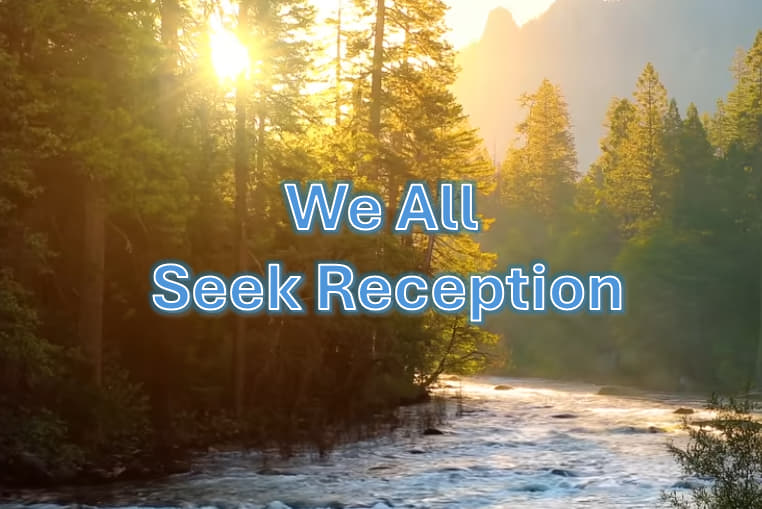
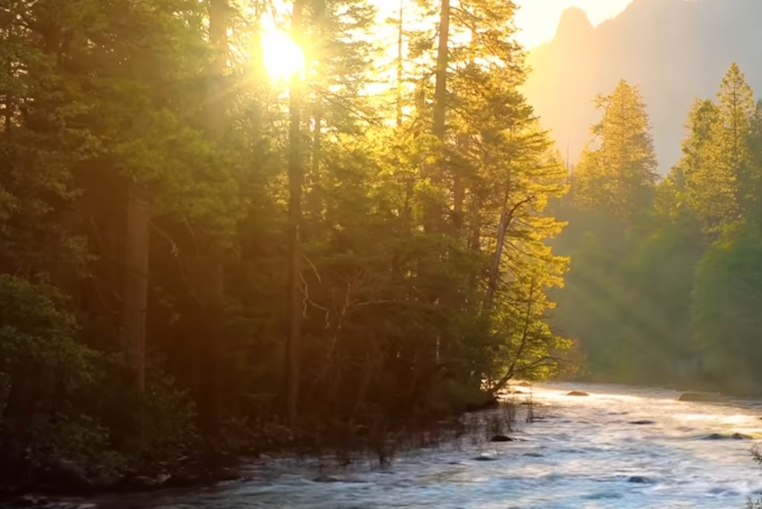
design updates

diff --git a/src/template/_partials/contact.html b/src/template/_partials/contact.html
@@ -5,8 +5,8 @@
     <div class="row">
       <div class="col-xl-6 mx-auto">
         <div class="vl-section-title3 mb-60 text-center">
-          <h4 class="subtitle" data-aos="fade-up" data-aos-duration="800" data-aos-delay="300">Contact From</h4>
-          <h2 class="title text-anime-style-3">Contact The Vywamus Foundation</h2>
+          <h4 class="subtitle" data-aos="fade-up" data-aos-duration="800" data-aos-delay="300">Contact</h4>
+          <h2 class="title text-anime-style-3">The Vywamus Foundation</h2>
         </div>
       </div>
     </div>
@@ -15,9 +15,9 @@
         <div class="vl-contact-icon-box mb-30" data-aos="fade-right" data-aos-duration="1200" data-aos-delay="300">
           <!-- top content -->
           <div class="vl-top-content">
-            <h4 class="title">Contact Info</h4>
-            <p class="para">We would love to hear from you! If you have questions about services, want to get involved,
-              or simply want to learn more about The Vywamus Foundation.</p>
+            <h4 class="title"></h4>
+            <p class="para">We would love to hear from you! If you have questions about our services 
+              or want to learn more about The Vywamus Foundation, contact us:</p>
           </div>
 
           <!-- icon box start: location -->
@@ -56,10 +56,8 @@
       </div>
       <div class="col-xl-7">
         <div id="contactform" class="vl-contact-from3" data-aos="fade-left" data-aos-duration="1000" data-aos-delay="300">
-            <h4 class="title">Get In Touch</h4>
-            <p class="para">By reaching out, you are taking first step toward making a difference for evolving your consciousness
-               and exploring a community committed to consciousness growth.
-            </p>
+            <h4 class="title">Send an email:</h4>
+
             <form action="#">
               <div class="vl-form3">
                 <div class="row">
@@ -80,7 +78,7 @@
                   </div>
                   <div class="col-xl-12">
                     <div class="vl-btn3">
-                      <button class="primary-btn-3">Send Now</button>
+                      <button class="primary-btn-3" disabled>Send Now</button>
                     </div>
                   </div>
                 </div>

diff --git a/src/template/_partials/pattern.html b/src/template/_partials/pattern.html
@@ -13,8 +13,8 @@
       <div class="col-xl-6 order-xl-2">
         <div class="vl-gallery-content">
           <div class="vl-section-title3 text-center" >
-            <h4 class="subtitle" data-aos="fade-up" data-aos-duration="1000" data-aos-delay="300">Contact us about our </h4>
-            <h2 class="title text-anime-style-3">Pattern Clearing Classes</h2>
+            <h4 class="subtitle" data-aos="fade-up" data-aos-duration="1000" data-aos-delay="300">Unconscious Belief Structures</h4>
+            <h2 class="title text-anime-style-3">Habital Recognition</h2>
             <div class="vl-gallery-large-thumb reveal mb-30">
               <img class="w-100" src="--ROOT--assets/img/gallery/vl-gallery-thum-large-3.5s.jpg" alt="">
             </div>

diff --git a/src/template/_partials/repository.html b/src/template/_partials/repository.html
@@ -5,7 +5,7 @@
       <div class="col-xl-7 mx-auto">
         <div class="vl-section-title3 mb-60 text-center">
           <h4 class="subtitle"  data-aos="fade-up" data-aos-duration="800" data-aos-delay="300"><a href="--ROOT--repository/">The Vywamus Foundation Repository</a></h4>
-          <h2 class="title text-anime-style-3">Our archive of recordings, articles, and teachings</h2>
+          <hr />
         </div>
       </div>
     </div>